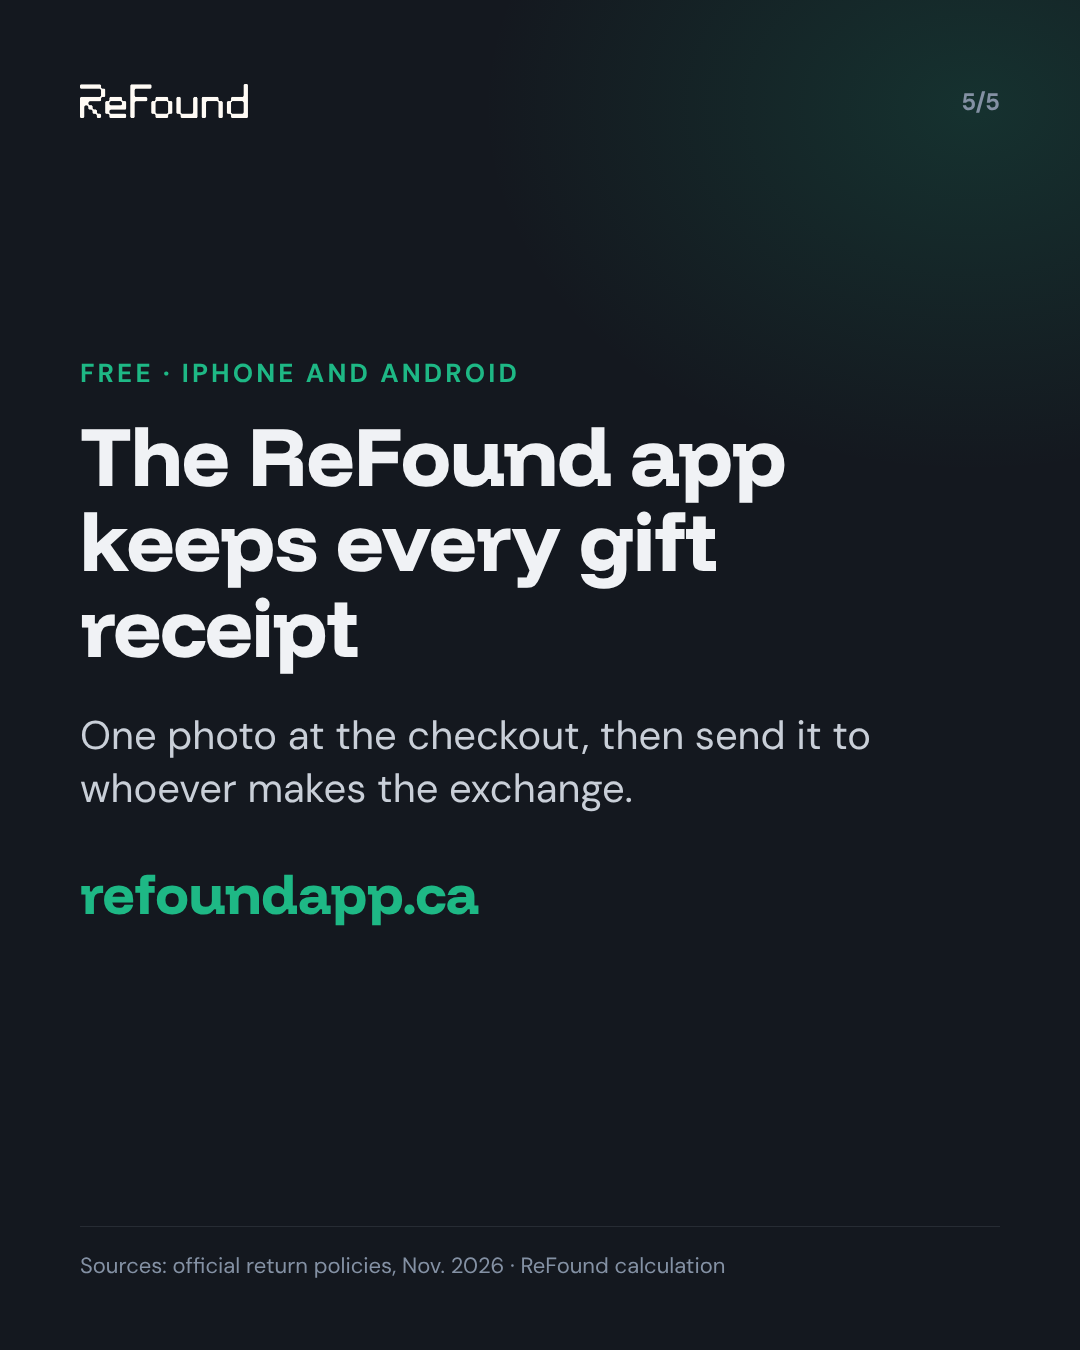
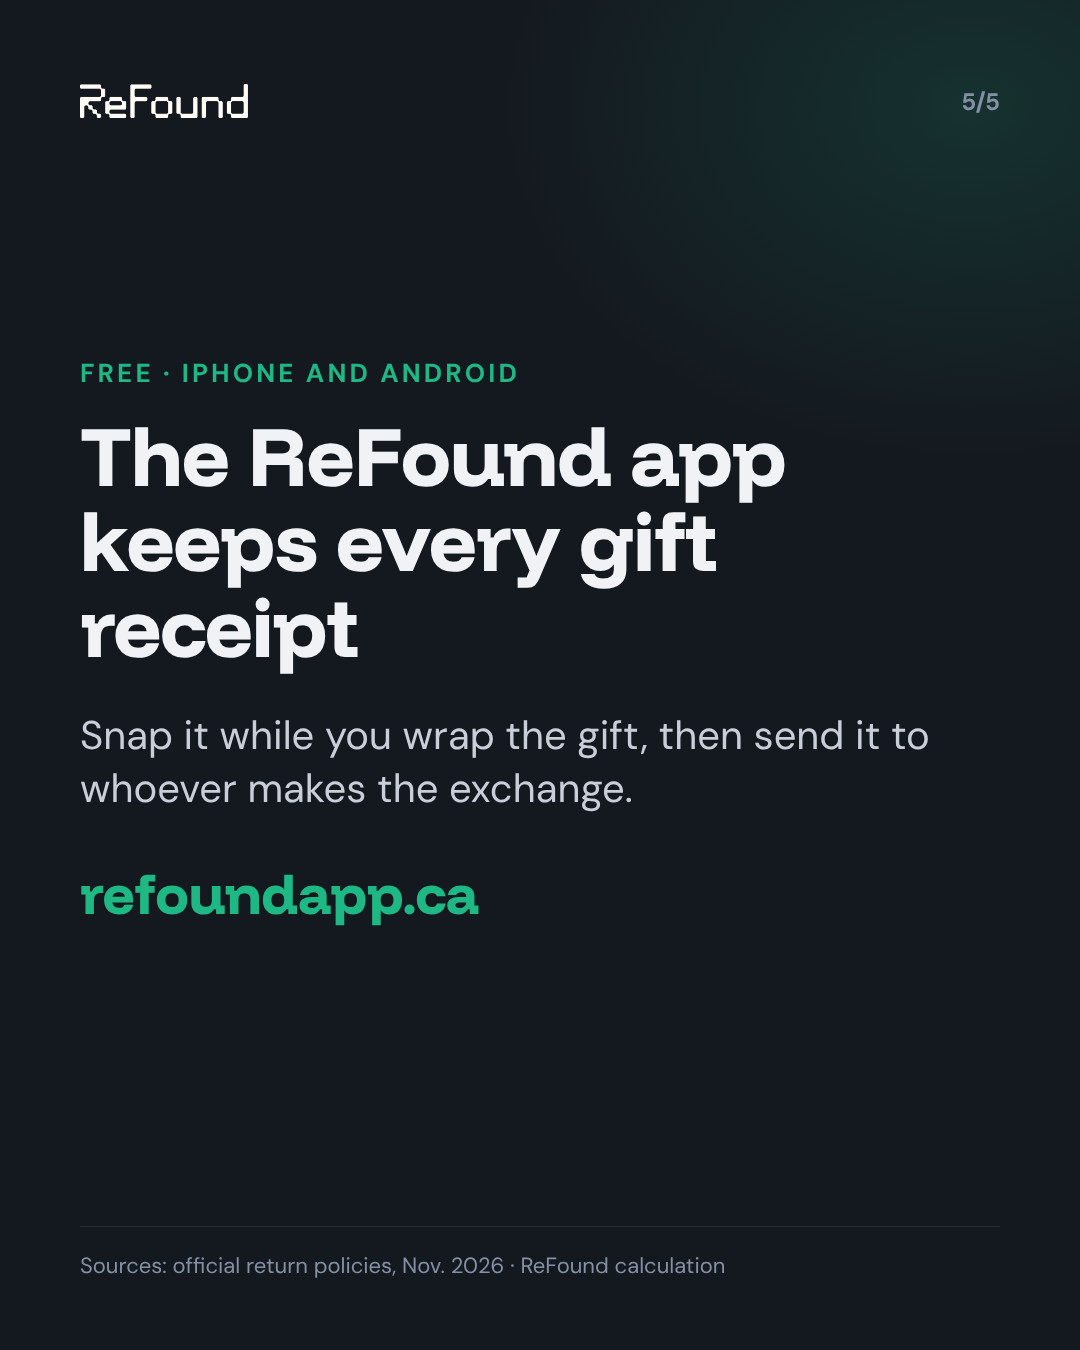
retourner-cadeau-noel: realistic gesture (photo while wrapping, not at checkout)
Claude-Session: https://claude.ai/code/session_01RobFqgR2K4ctFiasTkgThL

Changed region(s): [[0.0611, 0.5289, 0.8556, 0.56]]

diff --git a/social/retourner-cadeau-noel/slides.js b/social/retourner-cadeau-noel/slides.js
@@ -25,7 +25,7 @@ module.exports = {
       ['IKEA', 'Sans reçu : date, magasin, montant exact et 4 derniers chiffres de la carte.'],
       ['Home Depot', 'Sans reçu : pièce d’identité avec photo, et une vérification.']],
       text: 'La personne qui a reçu le cadeau n’a rien de tout ça.' },
-    { type: 'cta', eyebrow: 'Gratuit · iPhone et Android', title: 'L’app ReFound garde le reçu de chaque cadeau', text: 'Une photo à la caisse, et vous l’envoyez à la personne qui fera l’échange.' }] },
+    { type: 'cta', eyebrow: 'Gratuit · iPhone et Android', title: 'L’app ReFound garde le reçu de chaque cadeau', text: 'Prenez-le en photo en emballant le cadeau, et envoyez-le à la personne qui fera l’échange.' }] },
   en: { src: 'Sources: official return policies, Nov. 2026 · ReFound calculation', slides: [
     { type: 'stat', eyebrow: 'Gift bought on Black Friday', stat: '2 days', title: 'after Christmas to return electronics at Canadian Tire', text: '30 days from the purchase, not from Christmas.<br><b>November 27 + 30 days = December 27.</b>' },
     { type: 'list', plain: true, eyebrow: 'Bought November 27', title: 'Bring it back by…', items: [
@@ -41,5 +41,5 @@ module.exports = {
       ['IKEA', 'No receipt: date, store, exact amount and the card’s last 4 digits.'],
       ['Home Depot', 'No receipt: government photo ID, and a verification.']],
       text: 'The person who received the gift has none of that.' },
-    { type: 'cta', eyebrow: 'Free · iPhone and Android', title: 'The ReFound app keeps every gift receipt', text: 'One photo at the checkout, then send it to whoever makes the exchange.' }] }
+    { type: 'cta', eyebrow: 'Free · iPhone and Android', title: 'The ReFound app keeps every gift receipt', text: 'Snap it while you wrap the gift, then send it to whoever makes the exchange.' }] }
 };

diff --git a/social/retourner-cadeau-noel/caption.md b/social/retourner-cadeau-noel/caption.md
@@ -18,7 +18,7 @@ Enregistrez-le pour le Vendredi fou, et envoyez-le à la personne qui achète le
 2. Acheté le 27 novembre, à rapporter avant : Canadian Tire et Home Depot, télé et électronique le 27 décembre, le reste le 25 février ; Walmart, électronique le 27 décembre ; RONA, électroménagers le 27 décembre ; Costco, télé et électronique le 25 février ; Best Buy, le 10 janvier, sans retour en magasin le 26 décembre.
 3. Le cadeau est chez eux, le reçu est chez vous : la preuve d'achat appartient à la personne qui a payé.
 4. Pas de reçu-cadeau? Best Buy : carte-cadeau avec le reçu-cadeau, sinon la personne qui a payé doit venir ; IKEA : date, magasin, montant exact et 4 derniers chiffres de la carte ; Home Depot : pièce d'identité avec photo et une vérification.
-5. L'app ReFound, gratuite sur iPhone et Android, garde le reçu de chaque cadeau : une photo à la caisse, et vous l'envoyez à la personne qui fera l'échange.
+5. L'app ReFound, gratuite sur iPhone et Android, garde le reçu de chaque cadeau : prenez-le en photo en emballant le cadeau, et envoyez-le à la personne qui fera l'échange.
 
 ## EN
 Returning a Christmas gift: the clock starts at purchase, not on December 25
@@ -38,4 +38,4 @@ Save it for Black Friday, and send it to whoever buys the gifts at your place.
 2. Bought November 27, bring it back by: Canadian Tire and Home Depot, TVs and electronics Dec. 27, everything else Feb. 25; Walmart, electronics Dec. 27; RONA, appliances Dec. 27; Costco, TVs and electronics Feb. 25; Best Buy, Jan. 10, no in-store returns Dec. 26.
 3. The gift is at their place, the receipt is at yours: proof of purchase belongs to the person who paid.
 4. No gift receipt? Best Buy: gift card with a gift receipt, otherwise the person who paid has to come in; IKEA: date, store, exact amount and the card's last 4 digits; Home Depot: government photo ID and a verification.
-5. The ReFound app, free on iPhone and Android, keeps every gift receipt: one photo at the checkout, then send it to whoever makes the exchange.
+5. The ReFound app, free on iPhone and Android, keeps every gift receipt: snap it while you wrap the gift, then send it to whoever makes the exchange.

diff --git a/social/VALIDATION.md b/social/VALIDATION.md
@@ -58,6 +58,7 @@ puis 8, 7,5 et 8,5/10 après trois rondes. David a ensuite jugé le sujet trop p
 - **Un exemple de reçu hors sujet (bâton de hockey dans un carrousel sur l'électronique) et un code de caisse brut perdent les gens.** Mieux vaut aucun exemple.
 - **Dernière diapo : une action précise** (« Téléchargez ReFound avant le Vendredi fou »), pas seulement une adresse web.
 - **L'app seulement à la dernière diapo** (demande de David), nommée « l'app ReFound », et reliée au problème posé juste avant (ici : envoyer le reçu à la personne qui fait l'échange). Avant, une diapo « ce que fait l'app » au milieu n'était pas comprise comme parlant d'une app.
+- **Un geste réaliste** : personne ne prend son reçu en photo à la caisse (remarque de David). Proposer un moment naturel : en rentrant, en déballant les achats, en emballant le cadeau.
 - **Pas de paragraphe de conseils à la dernière diapo** : une phrase, une action.
 - Demande récurrente, à combler par David : une vraie capture d'écran de l'app (mode retour).
 
